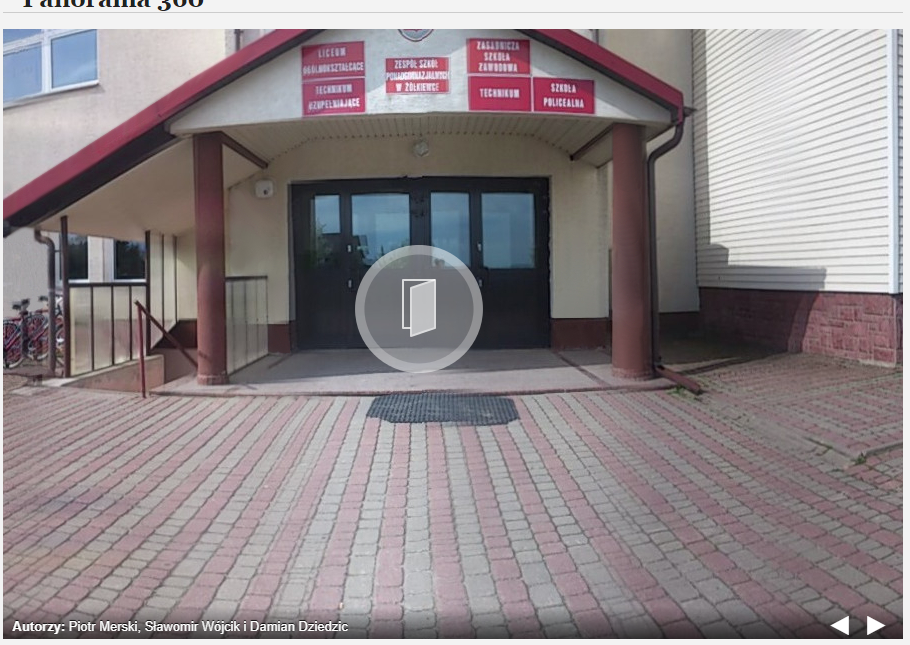
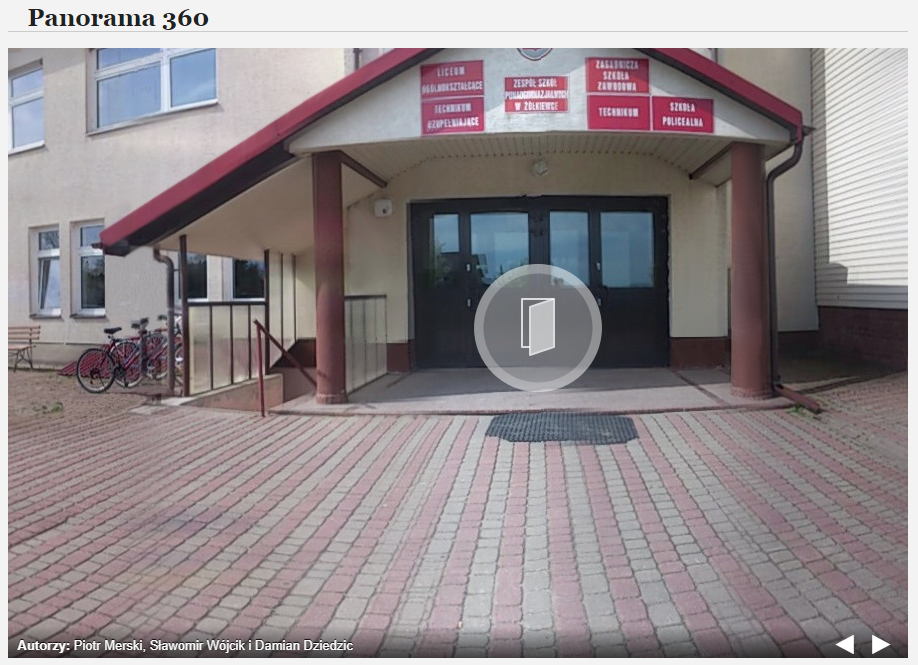
Virtual tour - add description

diff --git a/index.html b/index.html
@@ -814,7 +814,19 @@
 		<div id="frontend_projects" class="content_projects">
 			<button class="project_link">360 Virtual tour of the school</button>
 			<div class="project_description">
-				http://zspzolkiewka.pl/?p=view360
+				<span class="projec_description">&nbsp;&nbsp;&nbsp;&nbsp;&nbsp;&nbsp;360 Virtual tour of the school it is a project created for the shakes of my old school which was created in group of three people. We used technologies such as
+				Java Script and JSON.It allows users to visit the entire building and out-of-school areas. Project is available at the following link <a href ="http://zspzolkiewka.pl/?p=view360">www.zspzolkiewka.pl/?p=view360</a>. In addition, the project has debug options to make it easier to add further panoramas and transition points (<a href ="http://zspzolkiewka.pl/?p=view360&debug">Debug option</a>). </span>
+			
+				
+				<br /><br /><br />
+				<div>
+					<div class="image_project">
+						<img src="img/projects/virtualTour/img_1.png"/>
+					</div>
+					<div class="image_project">
+						<img src="img/projects/virtualTour/img_2.png"/>
+					</div>				
+				</div>
 			</div>
 			
 			<button class="project_link">Electronic Diary</button>

diff --git a/css/projects.css b/css/projects.css
@@ -19,7 +19,7 @@
   color: white;
   display: none;
   padding: 100px 20px;
-  height: 100%;
+
 }
 
 #frontend_projects {
@@ -67,3 +67,12 @@
   overflow: hidden;
 }
 
+.image_project{
+	width:50%;
+	float:left;
+}
+
+.projec_description{
+	font-size: 2rem;
+	line-height: 1.6;
+}
